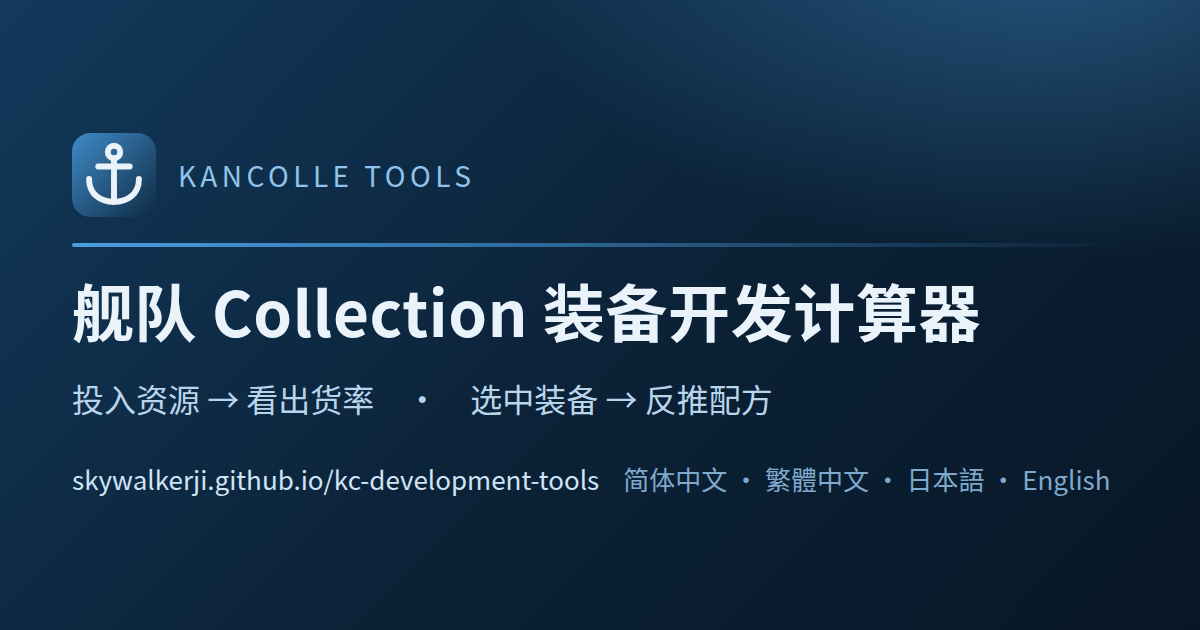
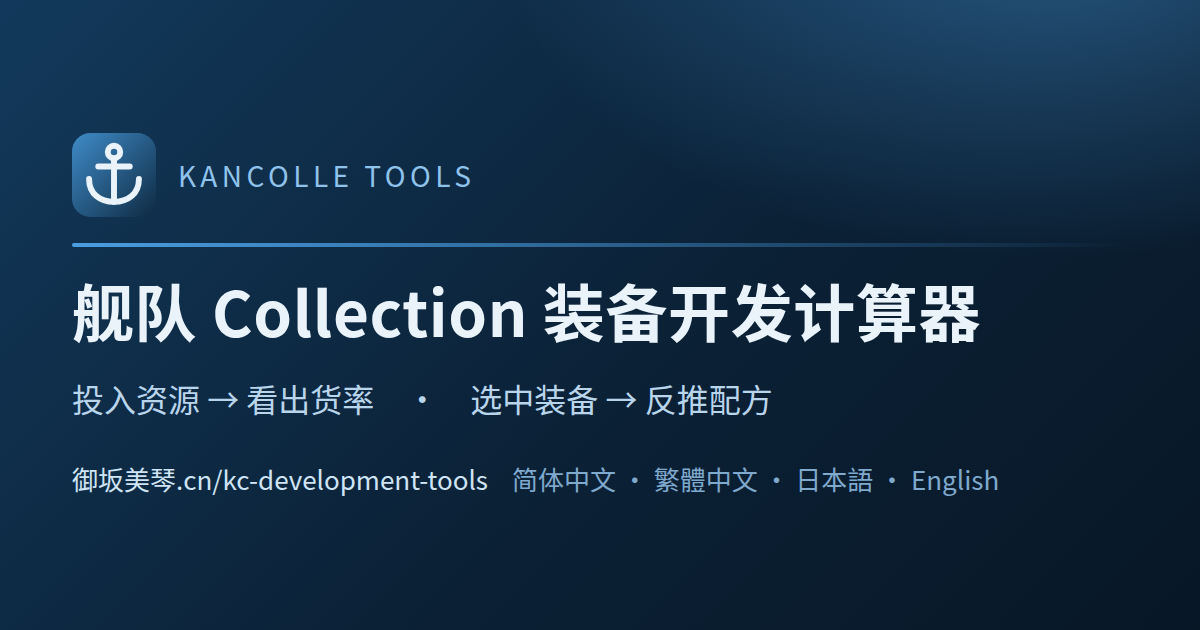
fix(seo): 规范地址指向 github.io，而那个地址会 301 到自定义域名
上一提交把 canonical / og:url / og:image / JSON-LD 的 url 与 image /
sitemap.xml 的 loc / robots.txt 的 Sitemap 全部写成了
https://skywalkerji.github.io/kc-development-tools/ —— 实测该地址返回
301，Location 指向 https://xn--uesr8qr0rdwk.cn/kc-development-tools/
（中文域名 御坂美琴.cn 的 punycode 形式，配置在用户根仓库
skywalkerji.github.io 上，本仓库没有 CNAME）。

为什么这是缺陷而不是小瑕疵：
- canonical 的定义就是「最终地址」，指向一个会重定向的 URL 自相矛盾。
- og:image 更吃亏 —— 部分社交抓取器不跟随重定向，分享卡片会直接不出图。

机器读的地址一律改成 punycode 形式（ASCII 无歧义，不依赖抓取器是否做
IDN 规范化）；面向人的位置（README 的「在线使用」链接、分享卡片上印的
那行 URL）用中文域名原文，并重新生成了 og-image.png。

顺带修正三处现在已经不准确的注释：index.html 里 favicon 那段说「根绝对
路径会指到 skywalkerji.github.io」——项目页挂在自定义域名下之后，它指的
是该域名的根；robots.txt 里对「爬虫只读域名根那一份」的说明补上了实测
结果（御坂美琴.cn/robots.txt 当前 404，也就是那份还不存在，真要让 robots
生效得在用户根仓库里放，超出本仓库范围）。

docs/development.md 的 SEO 一节新增「站点地址」小节记录以上取舍。

验证：pnpm type-check / pnpm test（1386 条）/ pnpm build-only /
pnpm verify-render 全部通过；另核对了构建产物里 JSON-LD 可解析、
sitemap.xml 为合法 XML。

Claude-Session: https://claude.ai/code/session_0124BzXc2urRhdNYkPW2prMX

Changed region(s): [[0.0617, 0.7238, 0.925, 0.7841]]

diff --git a/index.html b/index.html
@@ -41,9 +41,8 @@
          ⚠ 站名在**本文件里就有八份副本**（<title>、description、
          og:site_name、og:title、og:description、og:image:alt、JSON-LD 的
          name、noscript 的 h1），JSON-LD 的 alternateName 里还另有 ja 与
-         en 两份；这些全是静态
-         文本，没有任何测试或核验盯着它们。改站名前先读
-         docs/development.md 的「SEO」一节，那里列了必须同步的全部位置——
+         en 两份；这些全是静态文本，没有任何测试或核验盯着它们。改站名前先
+         读 docs/development.md 的「SEO」一节，那里列了必须同步的全部位置——
          这里刻意不再重复一份清单，两处清单各自过时是这个仓库已经踩过的坑。 -->
     <title>舰队 Collection 装备开发计算器</title>
     <meta name="description" content="舰队 Collection 装备开发计算器：选定秘书舰、填入油弹钢铝，逐件列出装备的出货率与最低资源要求；也可以反过来选中想要的装备，反推出所有可用配方。支持简体中文、繁體中文、日本語、English。">
@@ -52,16 +51,31 @@
     <!-- 规范 URL / og:url / og:image 必须是**绝对**地址：抓取器拿到的只是
          这份 HTML 的文本，不会替你解析相对路径。带尾斜杠、不带 hash——
          路由用的是 createWebHashHistory，`#/` 之后的部分对抓取器没有意义，
-         写进去只会让同一个页面产生多个看起来不同的规范地址。 -->
-    <link rel="canonical" href="https://skywalkerji.github.io/kc-development-tools/">
+         写进去只会让同一个页面产生多个看起来不同的规范地址。
+
+         ⚠ `xn--uesr8qr0rdwk.cn` 不是乱码，是中文域名 **御坂美琴.cn** 的
+         punycode 形式。该自定义域名配置在用户根仓库 skywalkerji.github.io
+         上（本仓库没有 CNAME 文件），因此本项目页的最终地址是
+         https://御坂美琴.cn/kc-development-tools/。
+
+         为什么不写 skywalkerji.github.io：那个地址会 **301** 跳到上面这个
+         域名（实测 Location 头如此）。canonical 指向一个会重定向的地址是
+         自相矛盾的——规范地址的定义就是「最终地址」；og:image 更吃亏，
+         部分社交抓取器不跟随重定向，分享卡片会直接不出图。
+
+         为什么写 punycode 而不是中文原文：这几个值是给机器读的，ASCII
+         形式无歧义、不依赖抓取器是否做 IDN 规范化。面向人的地方（README
+         的「在线使用」链接、分享卡片上印的那行字）用中文原文。 -->
+    <link rel="canonical" href="https://xn--uesr8qr0rdwk.cn/kc-development-tools/">
 
     <!-- %BASE_URL% 由 vite 在构建期替换成 vite.config.ts 里的 base
          （生产是 /kc-development-tools/，开发是 /）。
 
          ⚠ 这里原本写的是 `/favicon.ico`，两个问题叠在一起：那个文件从来
-         就不存在，而且根绝对路径在 GitHub Pages **项目页**上会指到
-         skywalkerji.github.io/favicon.ico——那是用户根仓库的地盘，不是本
-         仓库。凡是指向自家静态资源的路径都要走 %BASE_URL%，不能写成 /。 -->
+         就不存在，而且根绝对路径在 **项目页**部署下会指到域名根
+         （御坂美琴.cn/favicon.ico）——那是用户根仓库
+         skywalkerji.github.io 的地盘，不是本仓库。凡是指向自家静态资源的
+         路径都要走 %BASE_URL%，不能写成 /。 -->
     <link rel="icon" type="image/svg+xml" href="%BASE_URL%favicon.svg">
     <link rel="apple-touch-icon" href="%BASE_URL%apple-touch-icon.png">
 
@@ -75,11 +89,11 @@
     <meta property="og:site_name" content="舰队 Collection 装备开发计算器">
     <meta property="og:title" content="舰队 Collection 装备开发计算器">
     <meta property="og:description" content="投入资源看出货率，选中装备反推配方。支持简体中文、繁體中文、日本語、English 的舰队 Collection 装备开发计算器。">
-    <meta property="og:url" content="https://skywalkerji.github.io/kc-development-tools/">
+    <meta property="og:url" content="https://xn--uesr8qr0rdwk.cn/kc-development-tools/">
     <!-- 1200×630 的 PNG，源文件是 scripts/assets/og-image.html，由
          scripts/gen-assets.mjs 生成（改了源要重跑一次、把新 PNG 一起提交）。
          必须是位图：X 不接受 SVG 作 og:image。 -->
-    <meta property="og:image" content="https://skywalkerji.github.io/kc-development-tools/og-image.png">
+    <meta property="og:image" content="https://xn--uesr8qr0rdwk.cn/kc-development-tools/og-image.png">
     <meta property="og:image:width" content="1200">
     <meta property="og:image:height" content="630">
     <meta property="og:image:alt" content="舰队 Collection 装备开发计算器">
@@ -101,9 +115,9 @@
       "@type": "WebApplication",
       "name": "舰队 Collection 装备开发计算器",
       "alternateName": ["艦隊これくしょん 装備開発計算機", "KanColle Equipment Development Calculator"],
-      "url": "https://skywalkerji.github.io/kc-development-tools/",
+      "url": "https://xn--uesr8qr0rdwk.cn/kc-development-tools/",
       "description": "选定秘书舰、填入油弹钢铝，逐件列出装备的出货率与最低资源要求；也可以反过来选中想要的装备，反推出所有可用配方。",
-      "image": "https://skywalkerji.github.io/kc-development-tools/og-image.png",
+      "image": "https://xn--uesr8qr0rdwk.cn/kc-development-tools/og-image.png",
       "applicationCategory": "UtilitiesApplication",
       "operatingSystem": "Any",
       "browserRequirements": "Requires JavaScript",

diff --git a/scripts/assets/og-image.html b/scripts/assets/og-image.html
@@ -128,7 +128,10 @@
   <p class="tagline">投入资源 → 看出货率　·　选中装备 → 反推配方</p>
 
   <div class="foot">
-    <span class="url">skywalkerji.github.io/kc-development-tools</span>
+    <!-- 这行是印在图上给人看的，所以用中文域名原文而不是 punycode
+         （机器读的那几个 og:*/canonical 才写 punycode，理由见 index.html
+         里 canonical 上方的注释） -->
+    <span class="url">御坂美琴.cn/kc-development-tools</span>
     <span>简体中文 · 繁體中文 · 日本語 · English</span>
   </div>
 </body>

diff --git a/docs/development.md b/docs/development.md
@@ -84,8 +84,16 @@ pnpm verify-render   # 内部先 pnpm build，再驱动真实 headless Chrome
 
 - 指向自家静态资源的路径一律走 `%BASE_URL%`（vite 构建期替换成 `base`）。写成 `/xxx` 在 GitHub Pages 项目页上会指到域名根，那是**别的仓库**的地盘
 - `canonical` / `og:url` / `og:image` 必须是绝对 URL，带尾斜杠、不带 hash
-- `public/robots.txt` 在项目页部署下**读不到**（爬虫只读域名根的那一份），`sitemap.xml` 需要在 Search Console 手动提交，两者都不要当成已生效的 SEO 成果 —— 详见各自文件内的说明
+- `public/robots.txt` 在项目页部署下**读不到**（爬虫只读域名根的那一份，而那份由用户根仓库提供、当前是 404），`sitemap.xml` 需要在 Search Console 手动提交，两者都不要当成已生效的 SEO 成果 —— 详见各自文件内的说明
 - 没有 `hreflang`：四种语言共用同一个 URL，写了是假信息
+
+### 站点地址
+
+线上最终地址是 **`https://御坂美琴.cn/kc-development-tools/`**。自定义域名配置在用户根仓库 `skywalkerji.github.io` 上（本仓库没有 `CNAME`），`https://skywalkerji.github.io/kc-development-tools/` 会 **301** 跳到它。
+
+因此所有机器读的绝对地址（`canonical` / `og:url` / `og:image` / JSON-LD `url` `image` / `sitemap.xml` / `robots.txt` 的 `Sitemap`）都写自定义域名的 **punycode** 形式 `xn--uesr8qr0rdwk.cn` —— ASCII 无歧义，不依赖抓取器是否做 IDN 规范化。指向会 301 的地址是自相矛盾的：`canonical` 的定义就是「最终地址」，而部分社交抓取器不跟随重定向、`og:image` 会直接不出图。
+
+面向人的位置（README 的「在线使用」、分享卡片上印的那行字）用中文域名原文。
 
 ## 站点资产
 

diff --git a/README.md b/README.md
@@ -11,7 +11,7 @@
 [![License](https://img.shields.io/badge/License-GPL--3.0-blue)](./LICENSE)
 [![Deploy](https://github.com/SkywalkerJi/kc-development-tools/actions/workflows/deploy.yml/badge.svg)](https://github.com/SkywalkerJi/kc-development-tools/actions/workflows/deploy.yml)
 
-### [▶ 在线使用](https://skywalkerji.github.io/kc-development-tools/)
+### [▶ 在线使用](https://御坂美琴.cn/kc-development-tools/)
 
 简体中文 　·　 繁體中文 　·　 日本語 　·　 English
 
